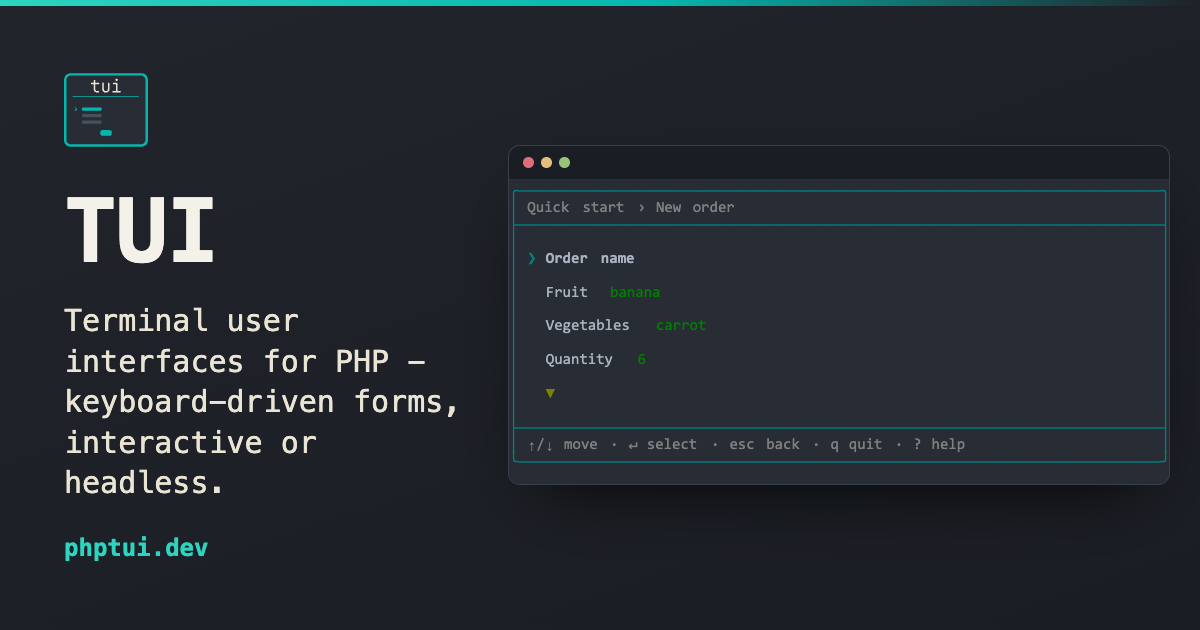
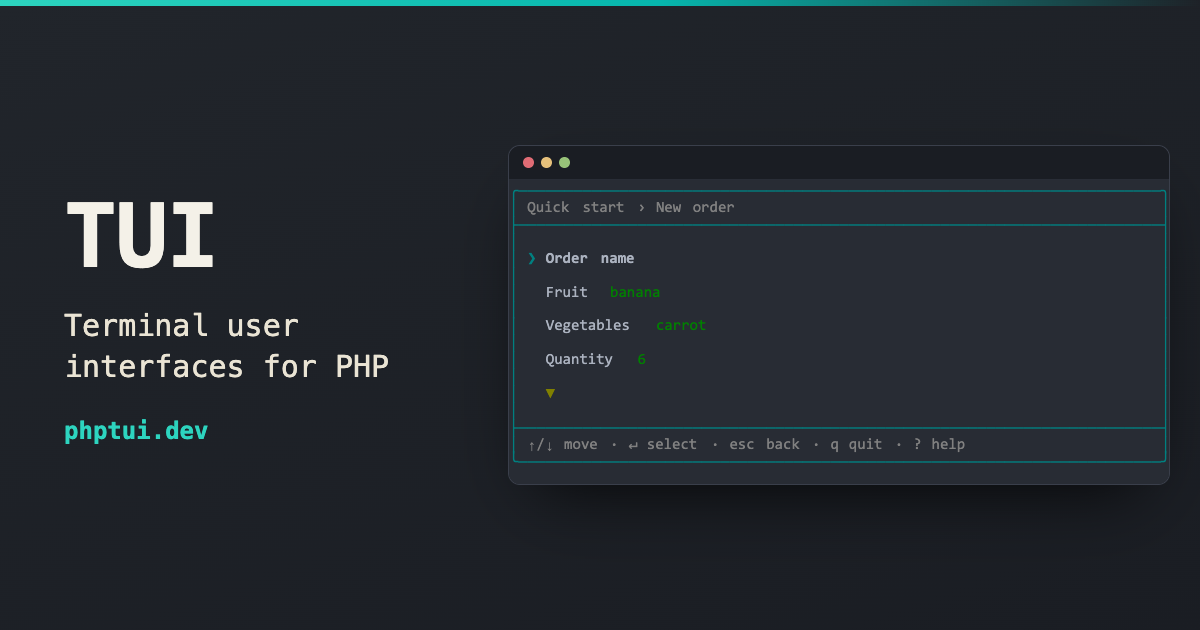
Made 'TUI - Terminal user interfaces for PHP' the official slogan in the site title and social card.
The site title now carries the slogan, so every page's browser title reads 'page | TUI - Terminal user interfaces for PHP' while the navbar keeps the short brand. The social card drops the logo mark and its extra tagline sentence, showing only the wordmark, the slogan and the domain beside the terminal frame; the regenerated PNG is included.

diff --git a/docs/docusaurus.config.js b/docs/docusaurus.config.js
@@ -8,7 +8,9 @@ import {themes as prismThemes} from 'prism-react-renderer';
 
 /** @type {import('@docusaurus/types').Config} */
 const config = {
-  title: 'TUI',
+  // The official slogan: it suffixes every page's <title> and stands alone as
+  // the homepage title; the navbar keeps its own short 'TUI' brand.
+  title: 'TUI - Terminal user interfaces for PHP',
   tagline: 'Terminal user interfaces for PHP',
   favicon: 'img/logo.svg',
 

diff --git a/docs/util/render-social-card.php b/docs/util/render-social-card.php
@@ -88,13 +88,11 @@ function dataUri(string $path, string $mime): string {
  *
  * @param string $terminal_uri
  *   The terminal SVG as a data URI.
- * @param string $logo_uri
- *   The site logo as a data URI.
  *
  * @return string
  *   The HTML.
  */
-function cardHtml(string $terminal_uri, string $logo_uri): string {
+function cardHtml(string $terminal_uri): string {
   $width = CARD_WIDTH;
   $height = CARD_HEIGHT;
 
@@ -118,7 +116,6 @@ function cardHtml(string $terminal_uri, string $logo_uri): string {
     background: linear-gradient(90deg, #2dd4bf, #06b6ad 55%, transparent);
   }
   .brand { width: 400px; flex: none; }
-  .brand img { width: 84px; height: 84px; display: block; margin-bottom: 28px; }
   .brand h1 { font-size: 88px; font-weight: 800; color: #f4f1e8; letter-spacing: -.02em; }
   .brand p { margin-top: 18px; font-size: 30px; line-height: 1.35; color: #eae4d4; }
   .brand .url { margin-top: 30px; font-size: 24px; font-weight: 700; color: #2dd4bf; }
@@ -140,9 +137,8 @@ function cardHtml(string $terminal_uri, string $logo_uri): string {
 </head>
 <body>
   <div class="brand">
-    <img src="{$logo_uri}" alt="">
     <h1>TUI</h1>
-    <p>Terminal user interfaces for&nbsp;PHP - keyboard-driven forms, interactive or headless.</p>
+    <p>Terminal user interfaces for&nbsp;PHP</p>
     <div class="url">phptui.dev</div>
   </div>
   <div class="term">
@@ -174,7 +170,7 @@ if (!is_dir($tmp_dir)) {
 }
 
 $html_path = $tmp_dir . '/social-card.html';
-$html = cardHtml(dataUri($svg_path, 'image/svg+xml'), dataUri(dirname($script_dir) . '/static/img/logo.svg', 'image/svg+xml'));
+$html = cardHtml(dataUri($svg_path, 'image/svg+xml'));
 file_put_contents($html_path, $html);
 
 info('Rendering ' . CARD_WIDTH . 'x' . CARD_HEIGHT . ' via agent-browser...');